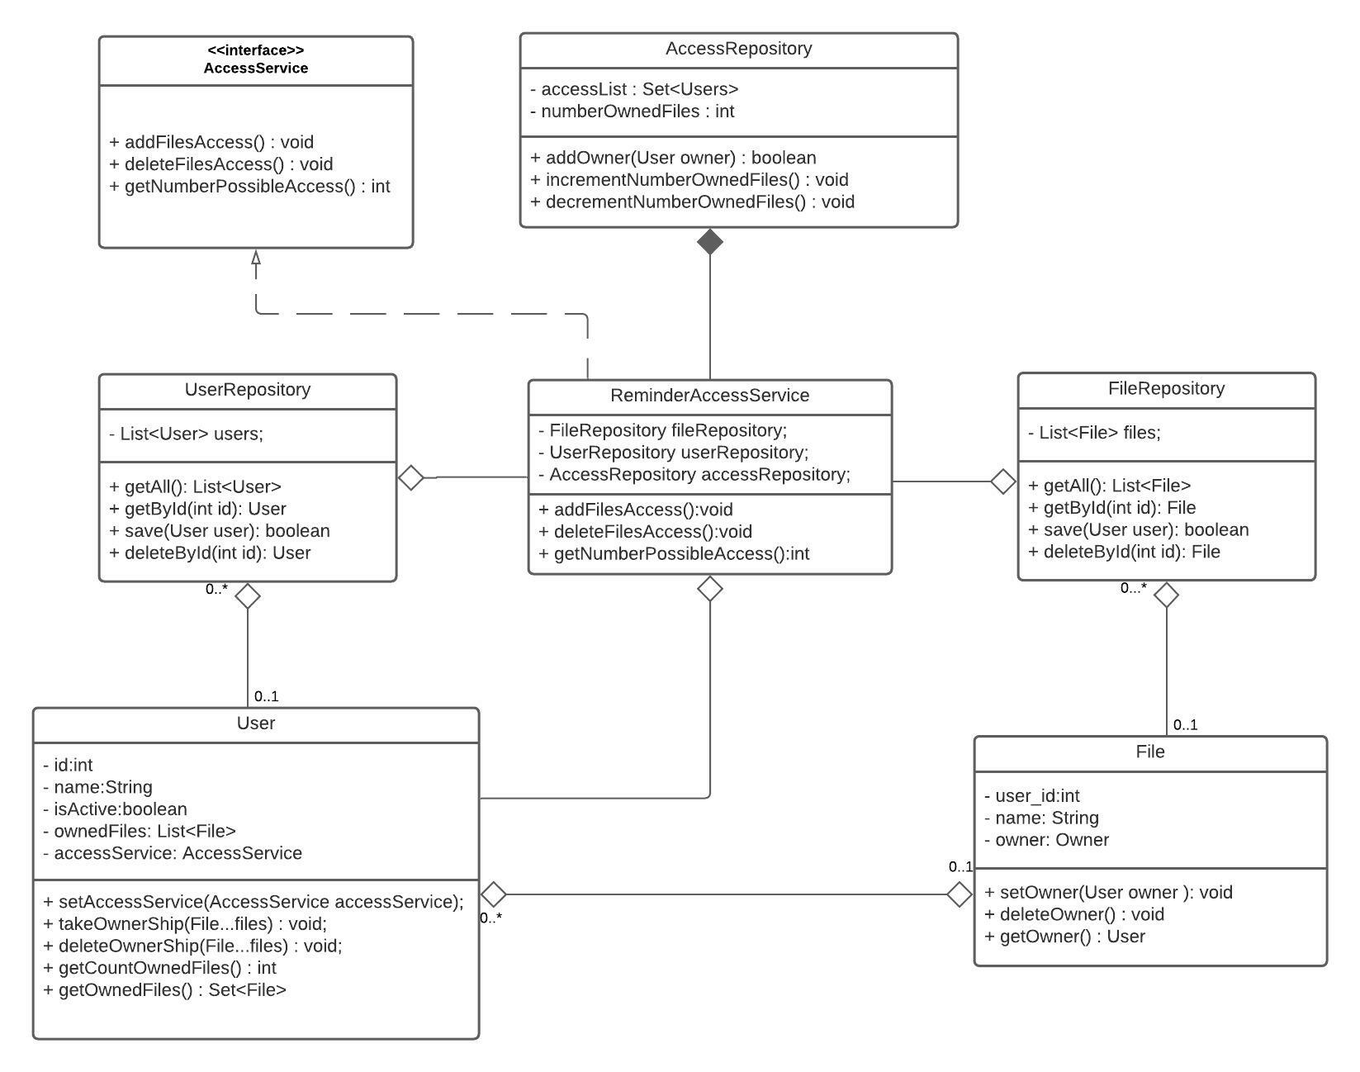
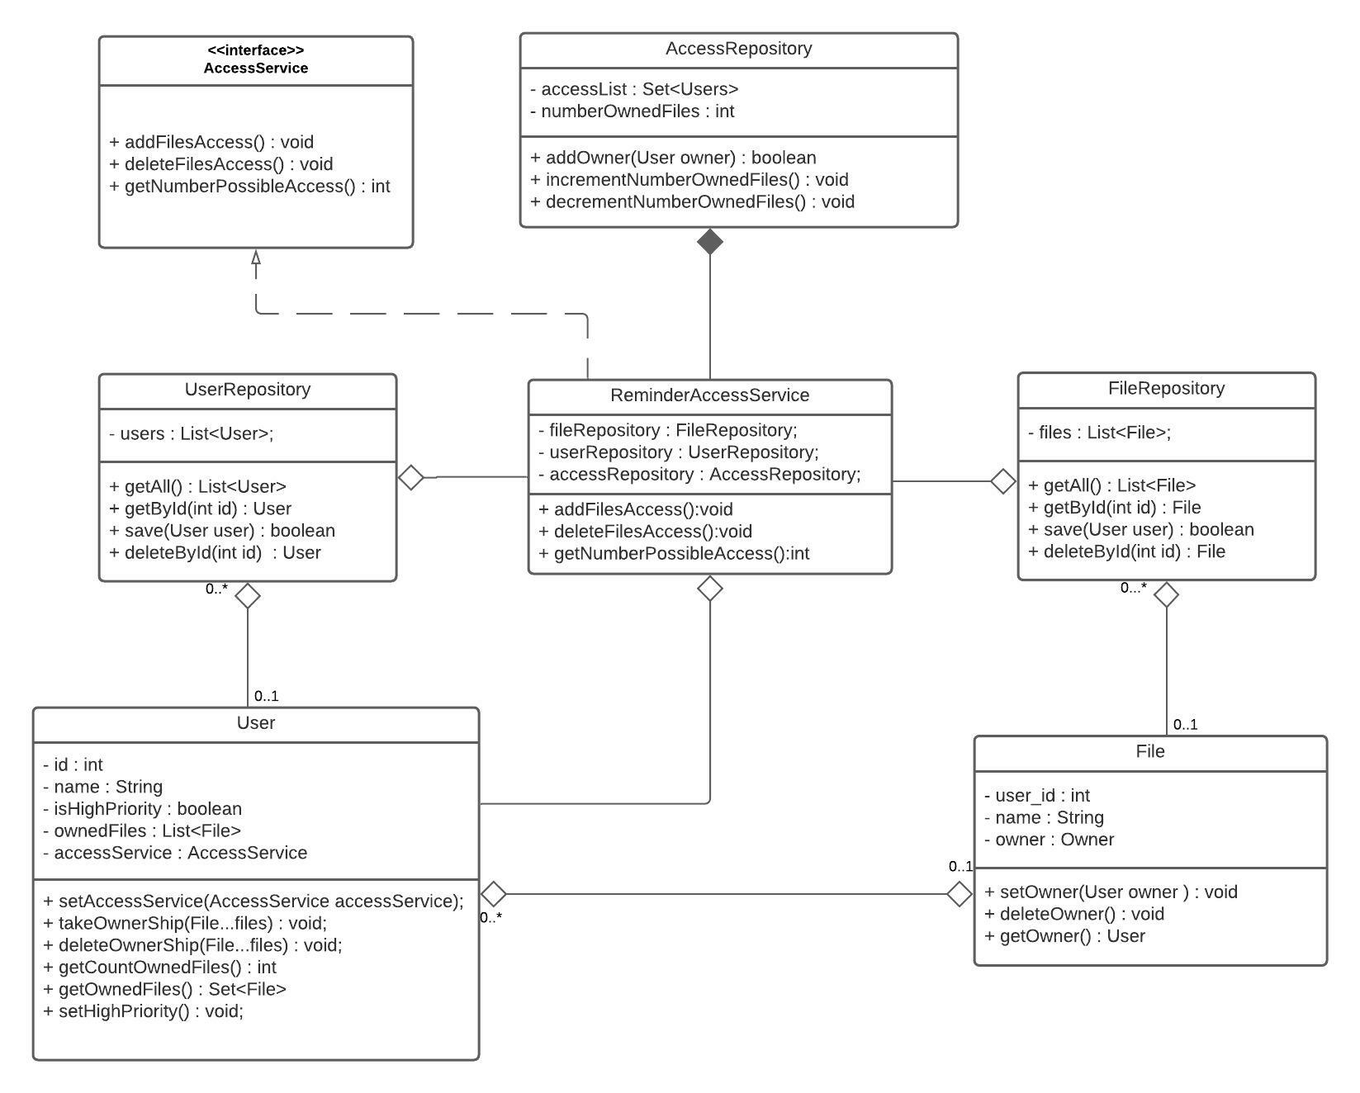
Update Readme

diff --git a/src/test/java/com/ownershiptask/tasks/services/ReminderAccessServiceTest.java b/src/test/java/com/ownershiptask/tasks/services/ReminderAccessServiceTest.java
@@ -11,17 +11,17 @@ import org.junit.jupiter.api.*;
 class ReminderAccessServiceTest {
     private final FileRepositoryImpl fileRepository = new FileRepositoryImpl();
     private final UserRepositoryImpl userRepository = new UserRepositoryImpl();
-    private final ReminderAccessService reminderAccessService = new ReminderAccessService(fileRepository, userRepository);
+    private final ReminderAccessService accessService = new ReminderAccessService(fileRepository, userRepository);
     private final AccessRepositoryImpl accessRepository = new AccessRepositoryImpl();
 
     @BeforeEach
     void testSetup() {
         // Create 10 users
-        reminderAccessService.setAccessRepository(accessRepository);
+        accessService.setAccessRepository(accessRepository);
         for (int i = 0; i < 10; i++){
             User user = new User(i);
             user.setName("User " + i);
-            user.setReminderAccessService(reminderAccessService);
+            user.setReminderAccessService(accessService);
             userRepository.save(user);
         }
 
@@ -43,14 +43,14 @@ class ReminderAccessServiceTest {
 
     @Test
     void isFileOwnedFalse() {
-        Assertions.assertFalse(reminderAccessService.isFileOwned(fileRepository.getById(0)));
+        Assertions.assertFalse(accessService.isFileOwned(fileRepository.getById(0)));
     }
 
     @Test
     void isFileOwnedTrue() {
         File file = fileRepository.getById(0);
         file.setOwner(userRepository.getById(1));
-        Assertions.assertTrue(reminderAccessService.isFileOwned(file));
+        Assertions.assertTrue(accessService.isFileOwned(file));
     }
 
     @Test
@@ -59,60 +59,60 @@ class ReminderAccessServiceTest {
         User user2 = userRepository.getById(1);
         User user3 = userRepository.getById(2);
 
-        reminderAccessService.setFileOwner(fileRepository.getById(1), user1);
-        reminderAccessService.setFileOwner(fileRepository.getById(2), user2);
-        reminderAccessService.setFileOwner(fileRepository.getById(3), user3);
+        accessService.setFileOwner(fileRepository.getById(1), user1);
+        accessService.setFileOwner(fileRepository.getById(2), user2);
+        accessService.setFileOwner(fileRepository.getById(3), user3);
 
-        Assertions.assertEquals(3, reminderAccessService.getNumberOwnedFiles());
+        Assertions.assertEquals(3, accessService.getNumberOwnedFiles());
     }
 
     @Test
     void getCountUserFiles() {
         User user1 = userRepository.getById(0);
 
-        reminderAccessService.setFileOwner(fileRepository.getById(0), user1);
-        reminderAccessService.setFileOwner(fileRepository.getById(1), user1);
-        reminderAccessService.setFileOwner(fileRepository.getById(2), user1);
-        reminderAccessService.setFileOwner(fileRepository.getById(3), user1);
+        accessService.setFileOwner(fileRepository.getById(0), user1);
+        accessService.setFileOwner(fileRepository.getById(1), user1);
+        accessService.setFileOwner(fileRepository.getById(2), user1);
+        accessService.setFileOwner(fileRepository.getById(3), user1);
 
-        Assertions.assertEquals(4, reminderAccessService.getCountUserFiles(user1));
+        Assertions.assertEquals(4, accessService.getCountUserFiles(user1));
     }
 
     @Test
     void getCountAllFiles() {
-        Assertions.assertEquals(16, reminderAccessService.getNumberAllFiles());
+        Assertions.assertEquals(16, accessService.getNumberAllFiles());
     }
 
     @Test
     void getCountAllUsers() {
-        Assertions.assertEquals(10, reminderAccessService.getNumberAllUsers());
+        Assertions.assertEquals(10, accessService.getNumberAllUsers());
     }
 
     @Test
     public void getCountPossibleInsertsBigRemainder() {
         // 16 files and 10 users. Remainder of division is 6. 6 out of 10 is over 50%
-        Assertions.assertEquals( 2, reminderAccessService.getNumberPossibleAccess(userRepository.getById(0)));
-        Assertions.assertEquals( 2, reminderAccessService.getNumberPossibleAccess(userRepository.getById(1)));
-        Assertions.assertEquals( 2, reminderAccessService.getNumberPossibleAccess(userRepository.getById(2)));
-        Assertions.assertEquals( 2, reminderAccessService.getNumberPossibleAccess(userRepository.getById(3)));
-        Assertions.assertEquals( 2, reminderAccessService.getNumberPossibleAccess(userRepository.getById(4)));
-        Assertions.assertEquals( 2, reminderAccessService.getNumberPossibleAccess(userRepository.getById(5)));
-        Assertions.assertEquals( 2, reminderAccessService.getNumberPossibleAccess(userRepository.getById(6)));
-        Assertions.assertEquals( 2, reminderAccessService.getNumberPossibleAccess(userRepository.getById(7)));
-        Assertions.assertEquals( 2, reminderAccessService.getNumberPossibleAccess(userRepository.getById(8)));
-        Assertions.assertEquals( 2, reminderAccessService.getNumberPossibleAccess(userRepository.getById(9)));
+        Assertions.assertEquals( 2, accessService.getNumberPossibleAccess(userRepository.getById(0)));
+        Assertions.assertEquals( 2, accessService.getNumberPossibleAccess(userRepository.getById(1)));
+        Assertions.assertEquals( 2, accessService.getNumberPossibleAccess(userRepository.getById(2)));
+        Assertions.assertEquals( 2, accessService.getNumberPossibleAccess(userRepository.getById(3)));
+        Assertions.assertEquals( 2, accessService.getNumberPossibleAccess(userRepository.getById(4)));
+        Assertions.assertEquals( 2, accessService.getNumberPossibleAccess(userRepository.getById(5)));
+        Assertions.assertEquals( 2, accessService.getNumberPossibleAccess(userRepository.getById(6)));
+        Assertions.assertEquals( 2, accessService.getNumberPossibleAccess(userRepository.getById(7)));
+        Assertions.assertEquals( 2, accessService.getNumberPossibleAccess(userRepository.getById(8)));
+        Assertions.assertEquals( 2, accessService.getNumberPossibleAccess(userRepository.getById(9)));
 
         // User1
-        Assertions.assertEquals(2, reminderAccessService.getNumberPossibleAccess(userRepository.getById(0)));
+        Assertions.assertEquals(2, accessService.getNumberPossibleAccess(userRepository.getById(0)));
         userRepository.getById(0).takeOwnershipFiles(fileRepository.getById(0));
         userRepository.getById(0).takeOwnershipFiles(fileRepository.getById(1));
-        Assertions.assertEquals(0, reminderAccessService.getNumberPossibleAccess(userRepository.getById(0)));
+        Assertions.assertEquals(0, accessService.getNumberPossibleAccess(userRepository.getById(0)));
 
         // User2
-        Assertions.assertEquals(2, reminderAccessService.getNumberPossibleAccess(userRepository.getById(1)));
+        Assertions.assertEquals(2, accessService.getNumberPossibleAccess(userRepository.getById(1)));
         userRepository.getById(1).takeOwnershipFiles(fileRepository.getById(2));
         userRepository.getById(1).takeOwnershipFiles(fileRepository.getById(3));
-        Assertions.assertEquals(0, reminderAccessService.getNumberPossibleAccess(userRepository.getById(1)));
+        Assertions.assertEquals(0, accessService.getNumberPossibleAccess(userRepository.getById(1)));
 
         // User3
         userRepository.getById(2).takeOwnershipFiles(fileRepository.getById(4));
@@ -123,39 +123,39 @@ class ReminderAccessServiceTest {
         userRepository.getById(3).takeOwnershipFiles(fileRepository.getById(7));
 
         // User5
-        Assertions.assertEquals(2, reminderAccessService.getNumberPossibleAccess(userRepository.getById(4)));
+        Assertions.assertEquals(2, accessService.getNumberPossibleAccess(userRepository.getById(4)));
         userRepository.getById(4).takeOwnershipFiles(fileRepository.getById(8));
         userRepository.getById(4).takeOwnershipFiles(fileRepository.getById(9));
 
         // User6
-        Assertions.assertEquals(2, reminderAccessService.getNumberPossibleAccess(userRepository.getById(5)));
+        Assertions.assertEquals(2, accessService.getNumberPossibleAccess(userRepository.getById(5)));
         userRepository.getById(5).takeOwnershipFiles(fileRepository.getById(10));
-        Assertions.assertEquals(1, reminderAccessService.getNumberPossibleAccess(userRepository.getById(5)));
+        Assertions.assertEquals(1, accessService.getNumberPossibleAccess(userRepository.getById(5)));
         userRepository.getById(5).takeOwnershipFiles(fileRepository.getById(11));
 
         // Check users for ownership
-        Assertions.assertEquals(0, reminderAccessService.getNumberPossibleAccess(userRepository.getById(0)));
-        Assertions.assertEquals(0, reminderAccessService.getNumberPossibleAccess(userRepository.getById(1)));
-        Assertions.assertEquals(0, reminderAccessService.getNumberPossibleAccess(userRepository.getById(2)));
-        Assertions.assertEquals(0, reminderAccessService.getNumberPossibleAccess(userRepository.getById(3)));
-        Assertions.assertEquals(0, reminderAccessService.getNumberPossibleAccess(userRepository.getById(4)));
-        Assertions.assertEquals(0, reminderAccessService.getNumberPossibleAccess(userRepository.getById(5)));
+        Assertions.assertEquals(0, accessService.getNumberPossibleAccess(userRepository.getById(0)));
+        Assertions.assertEquals(0, accessService.getNumberPossibleAccess(userRepository.getById(1)));
+        Assertions.assertEquals(0, accessService.getNumberPossibleAccess(userRepository.getById(2)));
+        Assertions.assertEquals(0, accessService.getNumberPossibleAccess(userRepository.getById(3)));
+        Assertions.assertEquals(0, accessService.getNumberPossibleAccess(userRepository.getById(4)));
+        Assertions.assertEquals(0, accessService.getNumberPossibleAccess(userRepository.getById(5)));
 
-        Assertions.assertEquals(1, reminderAccessService.getNumberPossibleAccess(userRepository.getById(6)));
+        Assertions.assertEquals(1, accessService.getNumberPossibleAccess(userRepository.getById(6)));
         userRepository.getById(6).takeOwnershipFiles(fileRepository.getById(12));
-        Assertions.assertEquals(0, reminderAccessService.getNumberPossibleAccess(userRepository.getById(6)));
+        Assertions.assertEquals(0, accessService.getNumberPossibleAccess(userRepository.getById(6)));
 
-        Assertions.assertEquals(1, reminderAccessService.getNumberPossibleAccess(userRepository.getById(7)));
+        Assertions.assertEquals(1, accessService.getNumberPossibleAccess(userRepository.getById(7)));
         userRepository.getById(7).takeOwnershipFiles(fileRepository.getById(13));
-        Assertions.assertEquals(0, reminderAccessService.getNumberPossibleAccess(userRepository.getById(7)));
+        Assertions.assertEquals(0, accessService.getNumberPossibleAccess(userRepository.getById(7)));
 
-        Assertions.assertEquals(1, reminderAccessService.getNumberPossibleAccess(userRepository.getById(8)));
+        Assertions.assertEquals(1, accessService.getNumberPossibleAccess(userRepository.getById(8)));
         userRepository.getById(8).takeOwnershipFiles(fileRepository.getById(14));
-        Assertions.assertEquals(0, reminderAccessService.getNumberPossibleAccess(userRepository.getById(8)));
+        Assertions.assertEquals(0, accessService.getNumberPossibleAccess(userRepository.getById(8)));
 
-        Assertions.assertEquals(1, reminderAccessService.getNumberPossibleAccess(userRepository.getById(9)));
+        Assertions.assertEquals(1, accessService.getNumberPossibleAccess(userRepository.getById(9)));
         userRepository.getById(9).takeOwnershipFiles(fileRepository.getById(15));
-        Assertions.assertEquals(0, reminderAccessService.getNumberPossibleAccess(userRepository.getById(9)));
+        Assertions.assertEquals(0, accessService.getNumberPossibleAccess(userRepository.getById(9)));
 
     }
 
@@ -167,20 +167,20 @@ class ReminderAccessServiceTest {
 
         // Now 16 files and 7 users. Remainder 2
         for (int i = 0; i < userRepository.getAll().size(); i++) {
-            Assertions.assertEquals(2, reminderAccessService.getNumberPossibleAccess(userRepository.getById(i)));
+            Assertions.assertEquals(2, accessService.getNumberPossibleAccess(userRepository.getById(i)));
         }
 
         // User1
         userRepository.getById(0).takeOwnershipFiles(fileRepository.getById(0));
-        Assertions.assertEquals(1, reminderAccessService.getNumberPossibleAccess(userRepository.getById(0)));
+        Assertions.assertEquals(1, accessService.getNumberPossibleAccess(userRepository.getById(0)));
         userRepository.getById(0).takeOwnershipFiles(fileRepository.getById(1));
-        Assertions.assertEquals(0, reminderAccessService.getNumberPossibleAccess(userRepository.getById(0)));
+        Assertions.assertEquals(0, accessService.getNumberPossibleAccess(userRepository.getById(0)));
 
         // User2
         userRepository.getById(1).takeOwnershipFiles(fileRepository.getById(2));
-        Assertions.assertEquals(1, reminderAccessService.getNumberPossibleAccess(userRepository.getById(1)));
+        Assertions.assertEquals(1, accessService.getNumberPossibleAccess(userRepository.getById(1)));
         userRepository.getById(1).takeOwnershipFiles(fileRepository.getById(3));
-        Assertions.assertEquals(0, reminderAccessService.getNumberPossibleAccess(userRepository.getById(1)));
+        Assertions.assertEquals(0, accessService.getNumberPossibleAccess(userRepository.getById(1)));
 
         // User3
         userRepository.getById(2).takeOwnershipFiles(fileRepository.getById(4));
@@ -192,39 +192,39 @@ class ReminderAccessServiceTest {
 
         // User5
         userRepository.getById(4).takeOwnershipFiles(fileRepository.getById(8));
-        Assertions.assertEquals(1, reminderAccessService.getNumberPossibleAccess(userRepository.getById(4)));
+        Assertions.assertEquals(1, accessService.getNumberPossibleAccess(userRepository.getById(4)));
         userRepository.getById(4).takeOwnershipFiles(fileRepository.getById(9));
 
-        Assertions.assertEquals(0, reminderAccessService.getNumberPossibleAccess(userRepository.getById(4)));
-        Assertions.assertEquals(0, reminderAccessService.getNumberPossibleAccess(userRepository.getById(3)));
-        Assertions.assertEquals(0, reminderAccessService.getNumberPossibleAccess(userRepository.getById(2)));
+        Assertions.assertEquals(0, accessService.getNumberPossibleAccess(userRepository.getById(4)));
+        Assertions.assertEquals(0, accessService.getNumberPossibleAccess(userRepository.getById(3)));
+        Assertions.assertEquals(0, accessService.getNumberPossibleAccess(userRepository.getById(2)));
 
         // User6
-        Assertions.assertEquals(2, reminderAccessService.getNumberPossibleAccess(userRepository.getById(5)));
+        Assertions.assertEquals(2, accessService.getNumberPossibleAccess(userRepository.getById(5)));
         userRepository.getById(5).takeOwnershipFiles(fileRepository.getById(10));
         userRepository.getById(5).takeOwnershipFiles(fileRepository.getById(11));
-        Assertions.assertEquals(0, reminderAccessService.getNumberPossibleAccess(userRepository.getById(5)));
-        Assertions.assertEquals(2, reminderAccessService.getNumberPossibleAccess(userRepository.getById(6)));
+        Assertions.assertEquals(0, accessService.getNumberPossibleAccess(userRepository.getById(5)));
+        Assertions.assertEquals(2, accessService.getNumberPossibleAccess(userRepository.getById(6)));
         userRepository.getById(6).takeOwnershipFiles(fileRepository.getById(12));
-        Assertions.assertEquals(1, reminderAccessService.getNumberPossibleAccess(userRepository.getById(6)));
+        Assertions.assertEquals(1, accessService.getNumberPossibleAccess(userRepository.getById(6)));
         userRepository.getById(6).takeOwnershipFiles(fileRepository.getById(13));
 
         // 14 files owned, all left files can own by everyone
-        Assertions.assertEquals(14, reminderAccessService.getNumberOwnedFiles());
+        Assertions.assertEquals(14, accessService.getNumberOwnedFiles());
 
-        Assertions.assertEquals(1, reminderAccessService.getNumberPossibleAccess(userRepository.getById(0)));
-        Assertions.assertEquals(1, reminderAccessService.getNumberPossibleAccess(userRepository.getById(1)));
-        Assertions.assertEquals(1, reminderAccessService.getNumberPossibleAccess(userRepository.getById(2)));
-        Assertions.assertEquals(1, reminderAccessService.getNumberPossibleAccess(userRepository.getById(3)));
-        Assertions.assertEquals(1, reminderAccessService.getNumberPossibleAccess(userRepository.getById(4)));
-        Assertions.assertEquals(1, reminderAccessService.getNumberPossibleAccess(userRepository.getById(5)));
-        Assertions.assertEquals(1, reminderAccessService.getNumberPossibleAccess(userRepository.getById(6)));
+        Assertions.assertEquals(1, accessService.getNumberPossibleAccess(userRepository.getById(0)));
+        Assertions.assertEquals(1, accessService.getNumberPossibleAccess(userRepository.getById(1)));
+        Assertions.assertEquals(1, accessService.getNumberPossibleAccess(userRepository.getById(2)));
+        Assertions.assertEquals(1, accessService.getNumberPossibleAccess(userRepository.getById(3)));
+        Assertions.assertEquals(1, accessService.getNumberPossibleAccess(userRepository.getById(4)));
+        Assertions.assertEquals(1, accessService.getNumberPossibleAccess(userRepository.getById(5)));
+        Assertions.assertEquals(1, accessService.getNumberPossibleAccess(userRepository.getById(6)));
 
         userRepository.getById(1).takeOwnershipFiles(fileRepository.getById(14));
-        Assertions.assertEquals(0, reminderAccessService.getNumberPossibleAccess(userRepository.getById(1)));
+        Assertions.assertEquals(0, accessService.getNumberPossibleAccess(userRepository.getById(1)));
 
         userRepository.getById(2).takeOwnershipFiles(fileRepository.getById(15));
-        Assertions.assertEquals(0, reminderAccessService.getNumberPossibleAccess(userRepository.getById(2)));
+        Assertions.assertEquals(0, accessService.getNumberPossibleAccess(userRepository.getById(2)));
 
     }
 
@@ -236,17 +236,17 @@ class ReminderAccessServiceTest {
         // Own 2 files
         user1.takeOwnershipFiles(fileRepository.getById(0));
         user1.takeOwnershipFiles(fileRepository.getById(1));
-        Assertions.assertEquals(2, reminderAccessService.getNumberOwnedFiles());
+        Assertions.assertEquals(2, accessService.getNumberOwnedFiles());
 
         // Try to delete ownership for not owner
         user2.deleteFilesOwnership(fileRepository.getById(0));
-        Assertions.assertEquals(2, reminderAccessService.getNumberOwnedFiles());
+        Assertions.assertEquals(2, accessService.getNumberOwnedFiles());
 
         // Delete ownership
         user1.deleteFilesOwnership(fileRepository.getById(0));
-        Assertions.assertEquals(1, reminderAccessService.getNumberOwnedFiles());
+        Assertions.assertEquals(1, accessService.getNumberOwnedFiles());
         user1.deleteFilesOwnership(fileRepository.getById(1));
-        Assertions.assertEquals(0, reminderAccessService.getNumberOwnedFiles());
+        Assertions.assertEquals(0, accessService.getNumberOwnedFiles());
     }
 
     @Test
@@ -280,19 +280,19 @@ class ReminderAccessServiceTest {
         user1.takeOwnershipFiles(fileRepository.getById(1), fileRepository.getById(2));
         Assertions.assertEquals(user1, fileRepository.getById(1).getOwner());
         Assertions.assertEquals(user1, fileRepository.getById(2).getOwner());
-        Assertions.assertEquals(2, reminderAccessService.getNumberOwnedFiles());
+        Assertions.assertEquals(2, accessService.getNumberOwnedFiles());
 
         // User 2 try to take ownership to files 2,4,5
         user2.takeOwnershipFiles(fileRepository.getById(1), fileRepository.getById(3), fileRepository.getById(4));
         Assertions.assertEquals(user1, fileRepository.getById(1).getOwner());
         Assertions.assertEquals(user2, fileRepository.getById(3).getOwner());
         Assertions.assertEquals(user2, fileRepository.getById(4).getOwner());
-        Assertions.assertEquals(4, reminderAccessService.getNumberOwnedFiles());
+        Assertions.assertEquals(4, accessService.getNumberOwnedFiles());
 
         // Set user 3 active for rewrite access to file 2
-        user3.setActive(true);
+        user3.setHighPriority(true);
         user3.takeOwnershipFiles(fileRepository.getById(1));
-        Assertions.assertEquals(4, reminderAccessService.getNumberOwnedFiles());
+        Assertions.assertEquals(4, accessService.getNumberOwnedFiles());
         Assertions.assertEquals(user3, fileRepository.getById(1).getOwner());
 
         // Try to delete ownership for user 2 to files 2,4,5
@@ -306,7 +306,7 @@ class ReminderAccessServiceTest {
         user4.takeOwnershipFiles(fileRepository.getById(1),fileRepository.getById(2));
         Assertions.assertEquals(user3, fileRepository.getById(1).getOwner());
         Assertions.assertEquals(user1, fileRepository.getById(2).getOwner());
-        Assertions.assertEquals(2, reminderAccessService.getNumberOwnedFiles());
+        Assertions.assertEquals(2, accessService.getNumberOwnedFiles());
         fileRepository.getAll().forEach(file-> System.out.println(file.getOwner()));
     }
 }

diff --git a/src/main/java/com/ownershiptask/tasks/models/User.java b/src/main/java/com/ownershiptask/tasks/models/User.java
@@ -11,7 +11,7 @@ import java.util.Set;
 public class User {
     private final int id;
     private String name;
-    private boolean isActive;
+    private boolean isHighPriority;
     private Set<File> ownedFiles = new HashSet<>();
     private ReminderAccessService reminderAccessService;
 
@@ -23,8 +23,8 @@ public class User {
         this.reminderAccessService = reminderAccessService;
     }
 
-    public boolean isActive() {
-        return isActive;
+    public boolean isHighPriority() {
+        return isHighPriority;
     }
 
     public void addToOwnedFilesList(File file){

diff --git a/src/main/java/com/ownershiptask/tasks/services/ReminderAccessService.java b/src/main/java/com/ownershiptask/tasks/services/ReminderAccessService.java
@@ -60,7 +60,7 @@ public class ReminderAccessService implements AccessService{
         for (File file : files) {
             if (getNumberPossibleAccess(user) <= 0)
                 return;
-            if (isFileOwned(file) & !user.isActive()) {
+            if (isFileOwned(file) & !user.isHighPriority()) {
                 continue;
             }
             setFileOwner(file,user);

diff --git a/README.md b/README.md
@@ -59,4 +59,27 @@
 
 #### UML диаграмма
 ![alt text](src/screenshots/uml-diagram.jpeg "UML диаграмма")
-#### Пример кода
+#### Пример кода  
+    // Создаем экземпляр класса добавив, в него репозитории с файлами и пользователями 
+    ReminderAccessService accessService = new ReminderAccessService(fileRepository, userRepository);
+    User user = userRepository.getById(0);
+
+    // Получить количество файлов, которыми может владеть данный пользователь 
+    accessService.getNumberPossibleAccess(user));
+
+    // Получить право на файлы через метод пользователя
+    user.takeOwnershipFiles(fileRepository.getById(0),fileRepository.getById(1));
+
+    // Получить право на файлы через accessService
+    accessService.addFilesAccess(user, fileRepository.getById(0),fileRepository.getById(1));
+
+    // Удалить права на файлы через метод пользователя
+    user.deleteFilesOwnership(fileRepository.getById(0));
+
+    // Удалить права на файлы через через accessService
+    accessService.deleteFilesAccess(user, fileRepository.getById(0),fileRepository.getById(1))
+
+    // По умолчанию пользователи в Low Priority - не могут переписать право, если файл уже во владении
+    // Чтобы пользователь мог перезаписывать права на уже занятые файлы, нужно выставить highPriority
+    user.setHighPriority(true);
+    
